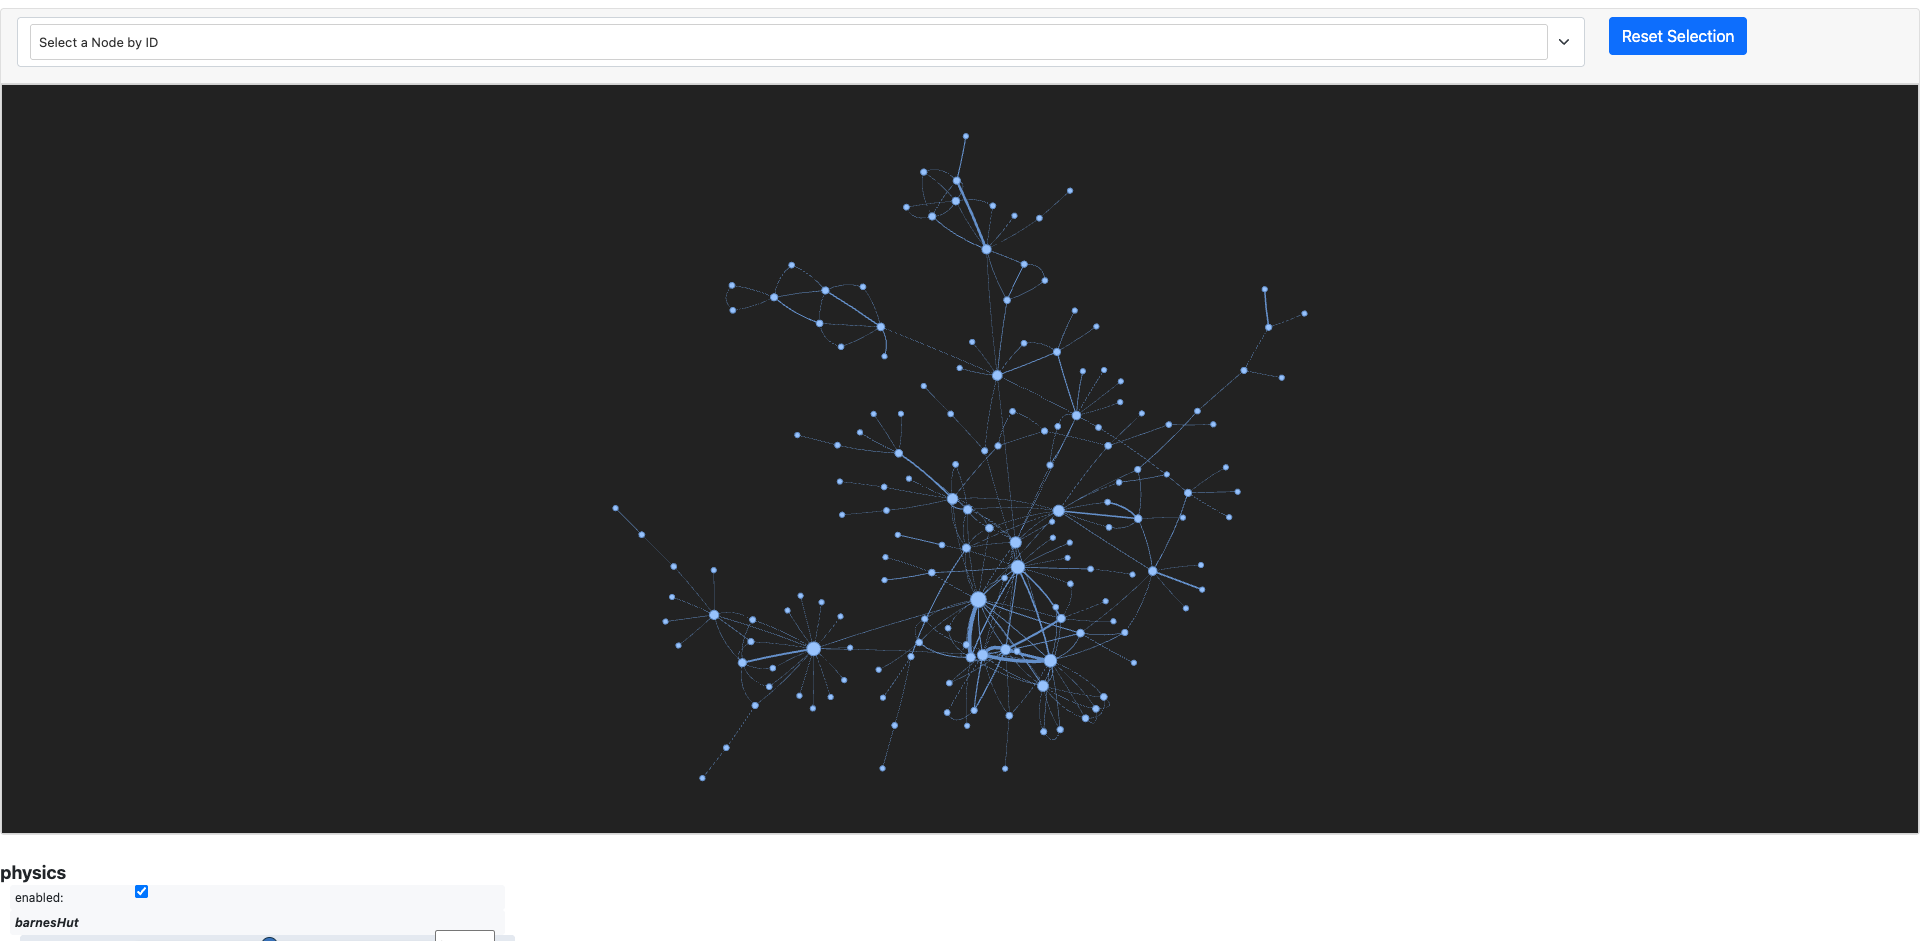
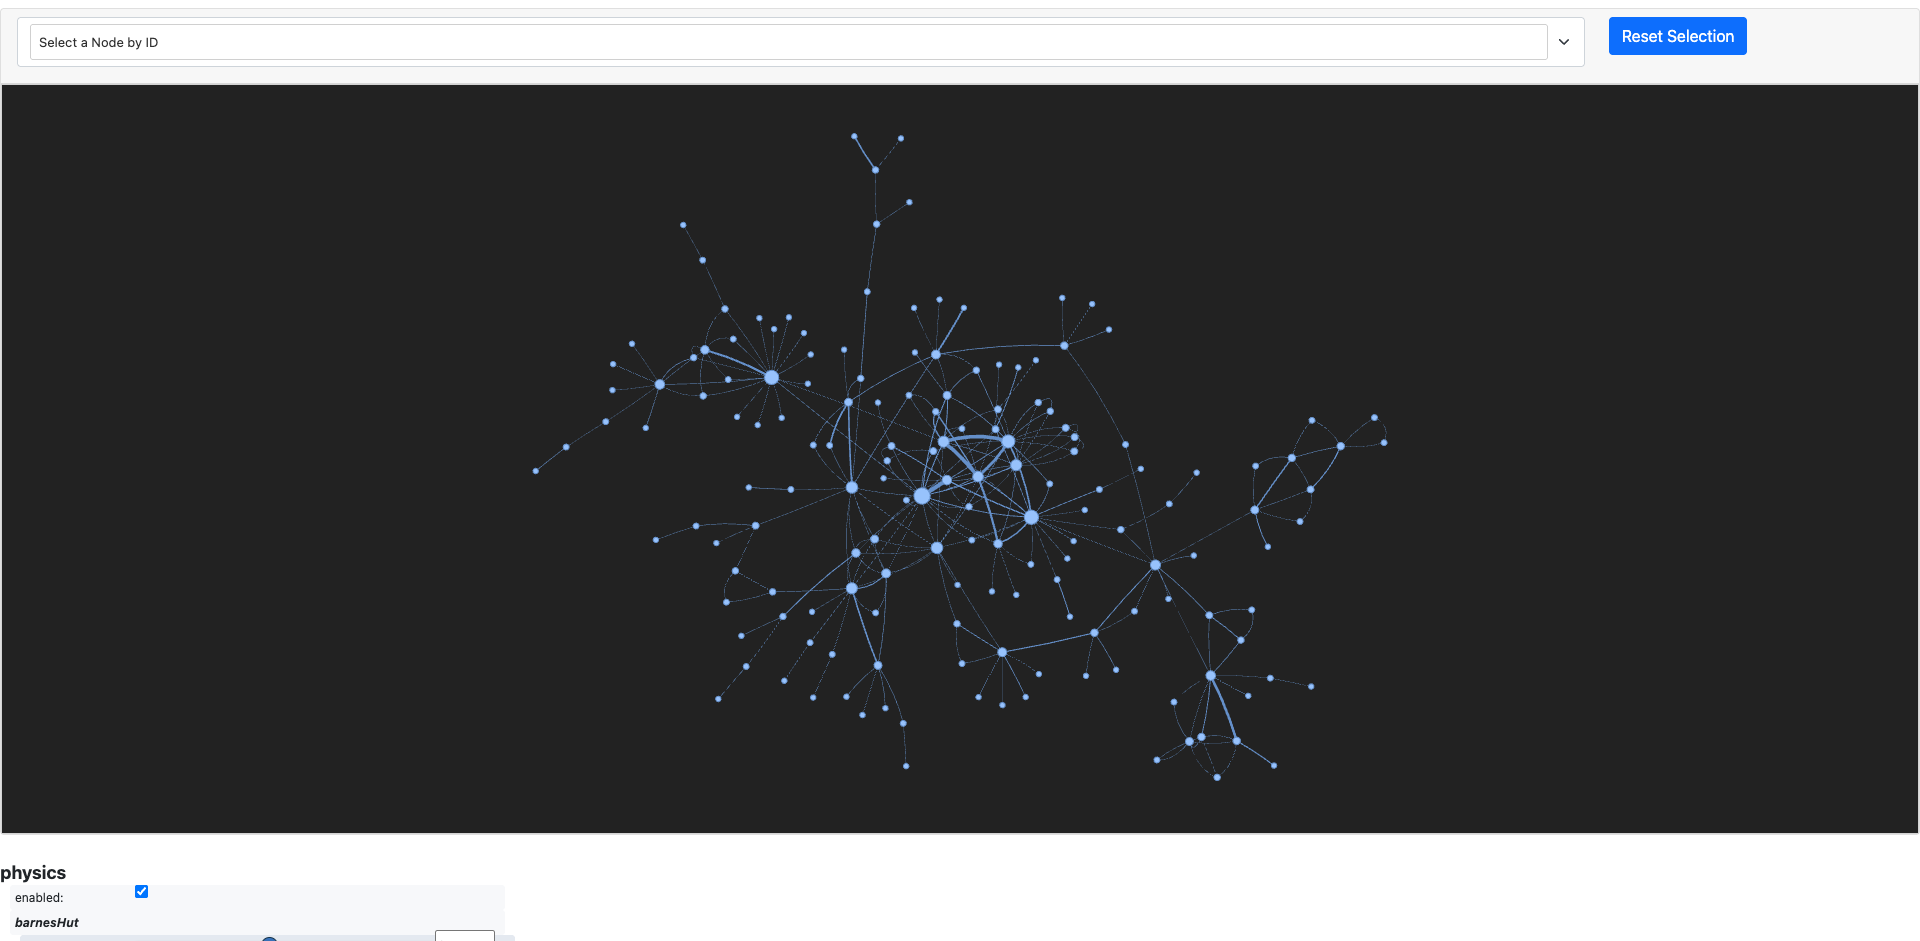
Minor changes

diff --git a/README.md b/README.md
@@ -8,6 +8,13 @@ Developers:
 This project constructs an institution-scoped co-authorship network from OpenAlex data. The final artifact is a weighted, undirected graph where each node is an OpenAlex author ID and each edge weight equals the number of works co-authored by that author pair, restricted to works that include at least two institution authors.
 
 Repository structure
+- `Assets/`
+  - `Graphs/`
+    - `interactive_graph.html`
+  - `Images/`
+    - `interactive_graph_preview.png`
+    - `original_graph.png`
+    - `subgraph.png`
 - `Data/`
   - `Raw/`
     - `raw_authors.jsonl`
@@ -31,6 +38,8 @@ Requirements:
   - `networkx`
   - `matplotlib`
   - `pyvis`
+  - `selenium`
+  - `webdriver-manager`
 
 Minimal installation:
 ```bash
